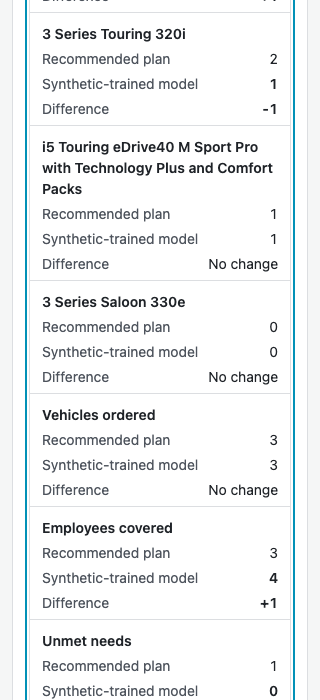
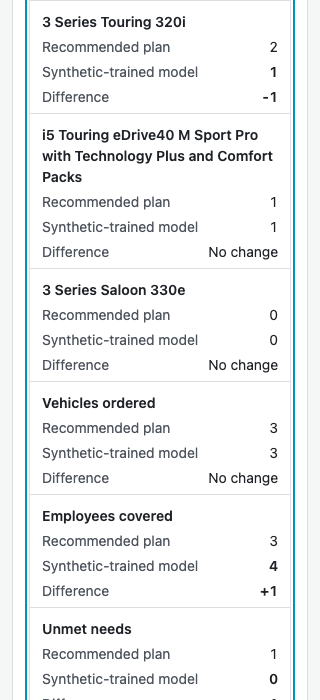
fix(gcsp): full-width stacked caption; FUCQ-235 result

diff --git a/blocks/gcsp/kit/gcsp-kit.css b/blocks/gcsp/kit/gcsp-kit.css
@@ -23,5 +23,5 @@
 .gcsp .gcsp-table .is-missing { color: var(--gcsp-text-muted); font-style: italic; }
 .gcsp .gcsp-table-empty { padding: 14px 12px; color: var(--gcsp-text-muted); }
 .gcsp .gcsp-table .is-numeric.is-band { white-space: normal; }
-@media (max-width: 640px) { .gcsp .gcsp-table-th, .gcsp .gcsp-table-rowhead, .gcsp .gcsp-table-td { padding: 8px; } .gcsp .gcsp-table-rowhead { min-width: 104px; } } @media (max-width: 640px) { .gcsp .gcsp-table-wrap.is-stack thead { position: absolute; width: 1px; height: 1px; overflow: hidden; clip-path: inset(50%); white-space: nowrap; } .gcsp .is-stack .gcsp-table, .gcsp .is-stack tbody, .gcsp .is-stack tbody tr { display: block; } .gcsp .is-stack tbody tr { padding: 4px 0; border-bottom: 1px solid var(--gcsp-divider); } .gcsp .is-stack tbody tr:last-child { border-bottom: 0; } .gcsp .is-stack .gcsp-table-rowhead { display: block; min-width: 0; padding: 6px 12px 2px; border-bottom: 0; } .gcsp .is-stack .gcsp-table-td { display: flex; justify-content: space-between; align-items: baseline; gap: 12px; padding: 2px 12px; border-bottom: 0; } .gcsp .is-stack .gcsp-table-td::before { content: attr(data-label); content: attr(data-label) / ""; flex: 1 1 auto; min-width: 0; color: var(--gcsp-text-muted); font-weight: 400; text-align: left; white-space: normal; } .gcsp .is-stack .gcsp-table-empty { display: block; } }
+@media (max-width: 640px) { .gcsp .gcsp-table-th, .gcsp .gcsp-table-rowhead, .gcsp .gcsp-table-td { padding: 8px; } .gcsp .gcsp-table-rowhead { min-width: 104px; } } @media (max-width: 640px) { .gcsp .gcsp-table-wrap.is-stack thead { position: absolute; width: 1px; height: 1px; overflow: hidden; clip-path: inset(50%); white-space: nowrap; } .gcsp .is-stack .gcsp-table, .gcsp .is-stack tbody, .gcsp .is-stack tbody tr { display: block; } .gcsp .is-stack tbody tr { padding: 4px 0; border-bottom: 1px solid var(--gcsp-divider); } .gcsp .is-stack tbody tr:last-child { border-bottom: 0; } .gcsp .is-stack .gcsp-table-rowhead { display: block; min-width: 0; padding: 6px 12px 2px; border-bottom: 0; } .gcsp .is-stack .gcsp-table-td { display: flex; justify-content: space-between; align-items: baseline; gap: 12px; padding: 2px 12px; border-bottom: 0; } .gcsp .is-stack .gcsp-table-td::before { content: attr(data-label); content: attr(data-label) / ""; flex: 1 1 auto; min-width: 0; color: var(--gcsp-text-muted); font-weight: 400; text-align: left; white-space: normal; } .gcsp .is-stack .gcsp-table-empty, .gcsp .is-stack .gcsp-table-caption { display: block; } }
 .gcsp .gcsp-tile-row { display: grid; grid-template-columns: repeat(auto-fit, minmax(min(100%, 150px), 1fr)); gap: 12px; }

diff --git a/_dev/in-progress/DEV-2026-11-09-GC-004.md b/_dev/in-progress/DEV-2026-11-09-GC-004.md
@@ -38,3 +38,24 @@ validate:
   ui: yes
 
   Severity: Low. Bug, not in MoSCoW.
+
+## Result
+- status: built
+- branch: dev/DEV-2026-11-09-GC-004
+- commit: 7d414f24 (fix), 52d4152d (evidence), then the caption and result commit that ends the branch
+- size and points: size M, 2 points
+- component plan: extend `dataTable` (kit) with `stack: true`: under 640 px each row shows its row header over labelled value lines (`data-label` drawn by `::before` with empty alt text). Explicit table roles keep the semantics, and the region is still the single keyboard stop. It is a real table at wider widths. This extends the kit rather than overriding the view, as `decided` asks. The gallery has a new "stacked rows on narrow screens" group, and COMPONENTS.md is updated. The CSS is appended to the existing kit line, so gcsp-kit.css stays at its cap of 28 and no ratchet baseline rose.
+- tests: `node --test --test-concurrency=1 server/test/gcsp-greg-plan-render.test.js server/test/gcsp-greg-plan-view.test.js server/test/shared-kit-contracts.test.js server/test/ui-ratchet.test.js server/test/gcsp-greg-dashboard.test.js`: 174 tests, 174 pass, 0 fail, on the final tree. These are the story's validate globs (each matched a file) plus the kit dataTable's own test file.
+- resources: scoped run, a few seconds each. The owned scratch was under the session scratchpad (gc004/), and the browser profile dir was removed. The static server on 8930 and Chrome were stopped, and pgrep shows nothing left. The worktree's server/node_modules is an ignored, untracked symlink to the shared checkout's copy, needed for `pg` in shared-kit-contracts.
+- validation scope: the regression is the new dataTable stack test (default output unchanged: no class, no data-label, no roles) and the plan render test (the learned comparison region is stacked and has labels). Affected callers: every other dataTable consumer leaves stack off, so its output is unchanged, and the dashboard and kit tests pass. Exclusions: the full npm test suite, because the change is opt-in and confined to one consumer. Tested on base 8829f791 plus the branch commits. No deploy smoke check is available.
+- diagnosis: see the `decided` note. It is presentation only, the data is correct and there is no existing-state repair.
+- evidence inspected: the bug has no screenshots (`evidence: []`). I viewed docs/gcsp/evidence/fucq123/keyboard-table-focus-375.png (the overflow before the fix), then docs/gcsp/evidence/fucq235/learned-320.png, keyboard-table-focus-375.png, learned-1280.png and gallery-stack-320.png (after the fix).
+- acceptance:
+  - [x] 375 and 320 px: the comparison stacks into labelled rows with no sideways scroll. The region's scrollWidth equals its clientWidth (315/315 at 375, 260/260 at 320), and there is no page or panel overflow (docs/gcsp/evidence/fucq235/capture-report.json).
+  - [x] 1280 px: it is still a four-column table (learned-1280.png).
+  - [x] Keyboard order is unchanged: 27 stops at 1280, 375 and 320, matching FUCQ-123, with the comparison still one region stop and a visible focus ring. The default dataTable contract is unchanged (dataTable tests).
+- agents: Haiku mechanic (night slice): stopped before editing because its brief would have exceeded the ratchet cap. Sonnet implementer (managed, high effort): did the slice and the evidence. Requested and selected match the agent files, with no fallback.
+- asked Cowork: none
+- follow-on job: none
+- not done: Chrome's CDP port came from lib.mjs freePort (random), not 8931-8949. The static server used 8930.
+- for Gary: check that the stacked comparison reads well at 375 (docs/gcsp/evidence/fucq235/learned-375.png). Other Greg plan tables still use the scroll region, which is not reported as a bug.

diff --git a/docs/gcsp/evidence/fucq235/README.md b/docs/gcsp/evidence/fucq235/README.md
@@ -29,6 +29,6 @@ Tab from the top of the page at 1280, 375 and 320: 27 stops inside the panel, id
 
 ## Notes
 
-- In stacked mode the caption ("Plan comparison") sits in a narrow box and wraps onto two lines at 375 and 320 (and "Plan comparison (stacks under 640 px)" onto five in the gallery). It is readable and not clipped; left as is.
+- The first run showed the stacked caption in a narrow box, wrapping onto two lines (five in the gallery). The story-lead added `.is-stack .gcsp-table-caption { display: block; }` to the same kit line and re-ran the capture: the caption now spans the region. All 5 captures pass and the keyboard order still matches FUCQ-123.
 - The static server returns 404 for `/api/gcsp/presenter/controls`, `/api/gcsp/scheme-team/cases` and `/favicon.ico` (logged in `badResponses`); the plan is unaffected.
 - Layout was judged by reading each PNG; no automated contrast check was run.
